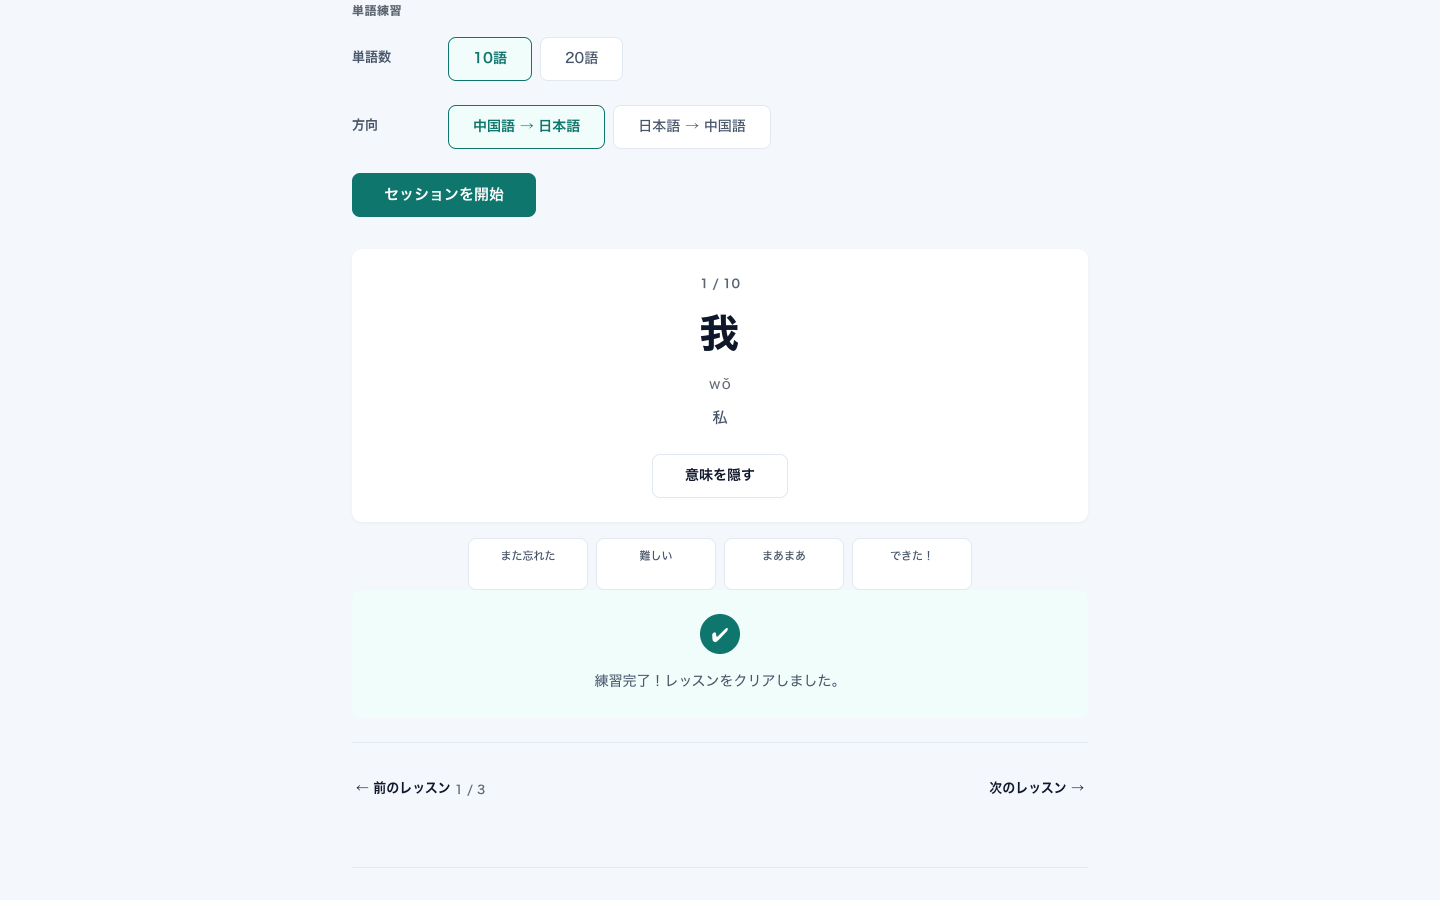
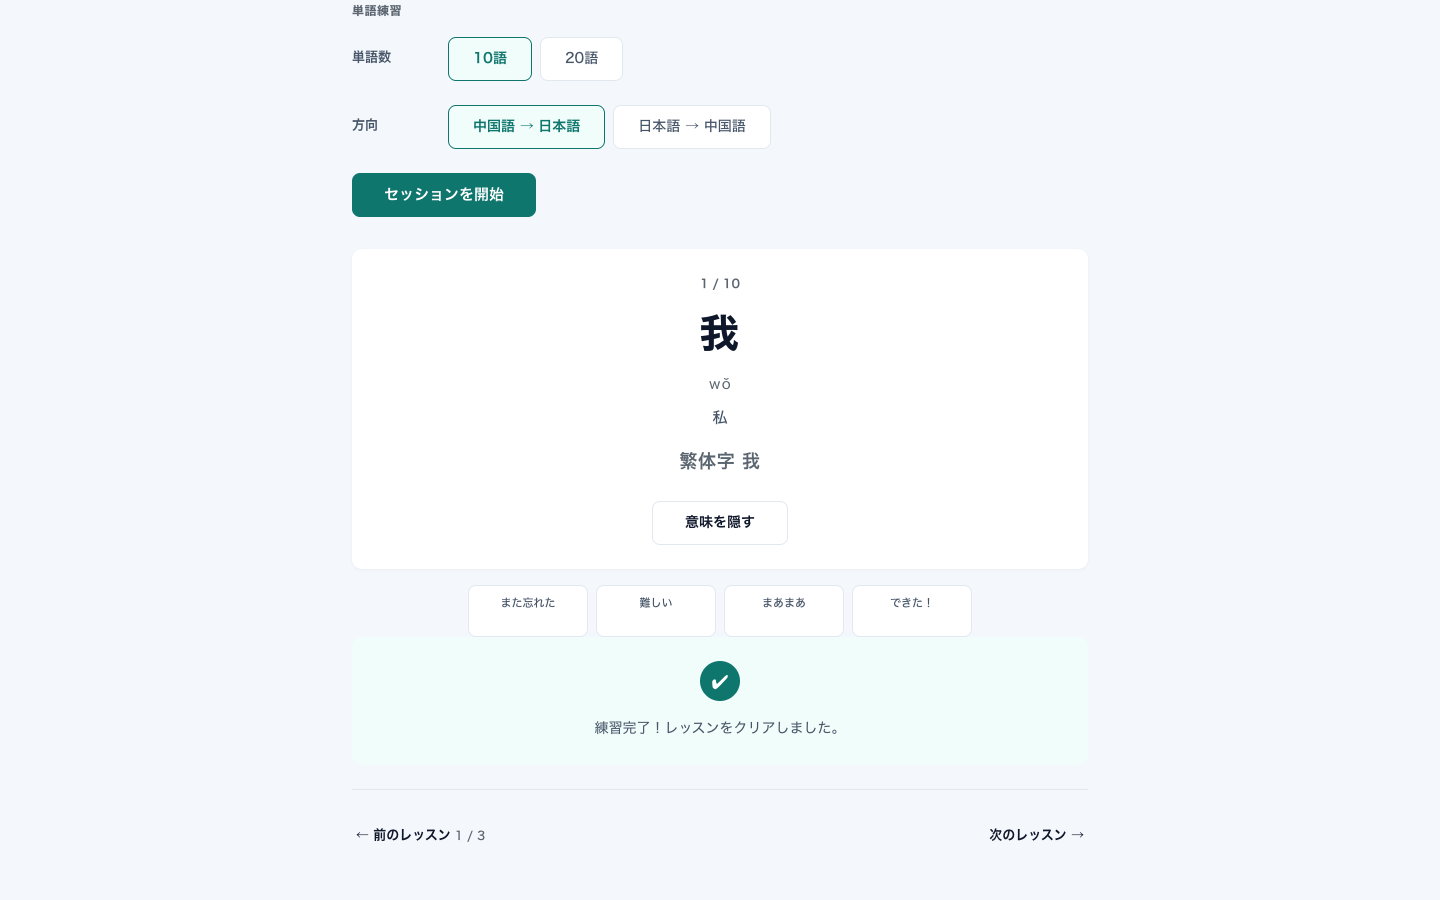
fix: full lang attrs on flashcard, hidden/revealed rating, add traditional field

diff --git a/docs/design/prototypes/direction-b-learning-app.html b/docs/design/prototypes/direction-b-learning-app.html
@@ -763,7 +763,15 @@
     color: var(--color-text-secondary);
     font-weight: 500;
     min-height: 1.5em;
+    margin-bottom: var(--space-md);
+  }
+  .vocab-card__zh-traditional {
+    font-family: var(--font-zh);
+    font-size: 1.125rem;
+    font-weight: 600;
+    color: var(--color-text-muted);
     margin-bottom: var(--space-lg);
+    letter-spacing: 0.04em;
   }
   .vocab-card__action {
     min-height: 44px;
@@ -794,6 +802,9 @@
 
   /* Rating buttons */
   .vocab-rating {
+    display: none;
+  }
+  #vocab-revealed-1:target ~ .vocab-rating {
     display: flex;
     gap: var(--space-sm);
     justify-content: center;
@@ -1132,18 +1143,17 @@
     <!-- Flashcard (hidden state — pre-reveal) -->
     <div class="vocab-card" id="vocab-hidden-1">
       <div class="vocab-card__count">1 / 10</div>
-      <div class="vocab-card__zh">我</div>
-      <div class="vocab-card__pinyin" aria-hidden="true">···</div>
-      <div class="vocab-card__ja-hidden" aria-hidden="true">？？？</div>
+      <div class="vocab-card__zh" lang="zh-Hans">我</div>
       <a href="#vocab-revealed-1" class="vocab-card__action">意味を表示</a>
     </div>
 
     <!-- Flashcard (revealed state) -->
     <div class="vocab-card" id="vocab-revealed-1">
       <div class="vocab-card__count">1 / 10</div>
-      <div class="vocab-card__zh">我</div>
-      <div class="vocab-card__pinyin">wǒ</div>
-      <div class="vocab-card__ja-revealed">私</div>
+      <div class="vocab-card__zh" lang="zh-Hans">我</div>
+      <div class="vocab-card__pinyin" lang="zh-Latn">wǒ</div>
+      <div class="vocab-card__ja-revealed" lang="ja">私</div>
+      <div class="vocab-card__zh-traditional"><span class="vocab-label" lang="ja">繁体字</span> <span lang="zh-Hant">我</span></div>
       <a href="#vocab-hidden-1" class="vocab-card__action">意味を隠す</a>
     </div>
 
